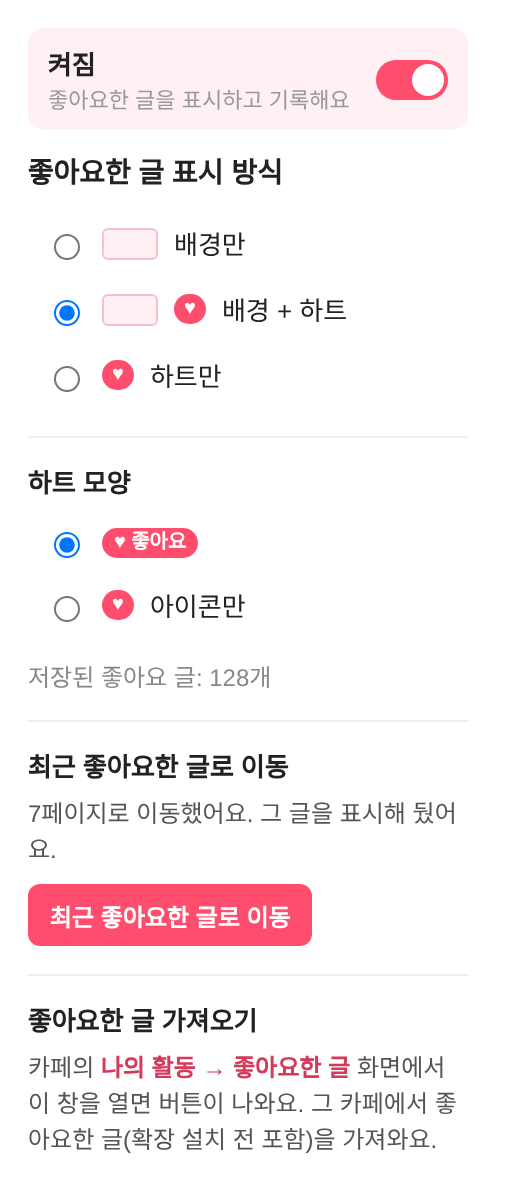
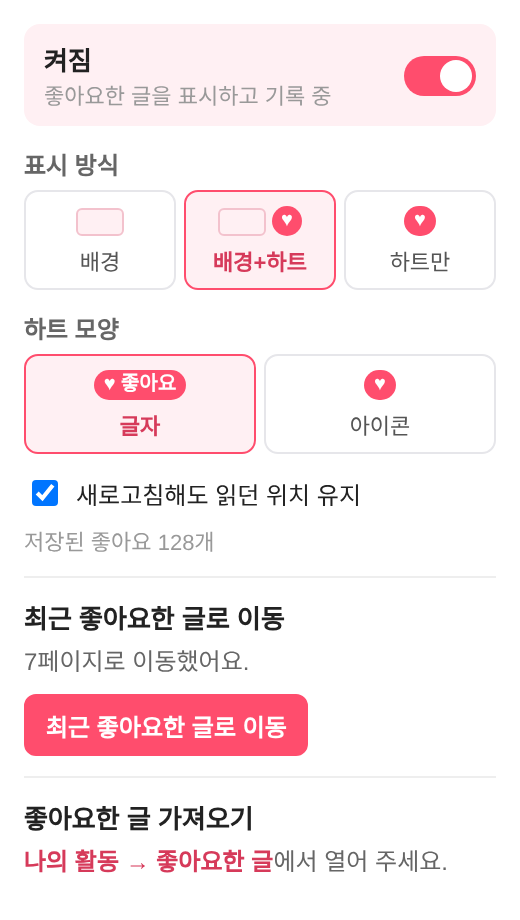
2.0.0 → 2.0.1 업데이트 안내 이미지 (읽던 위치 유지, 설정 창 간소화)
Claude-Session: https://claude.ai/code/session_018ih16usEF2kqeph62Xi418

diff --git a/tools/update_201.html b/tools/update_201.html
@@ -1,0 +1,91 @@
+<!DOCTYPE html><html lang="ko"><head><meta charset="utf-8">
+<style>
+*{box-sizing:border-box}
+body{margin:0;font-family:Pretendard,"Noto Sans CJK KR","Malgun Gothic",sans-serif;color:#222;background:#fff}
+#up{width:960px;padding:56px 56px 48px;background:linear-gradient(180deg,#fff5f7 0%,#fff 38%)}
+.top{text-align:center;margin-bottom:38px}
+.ver{display:inline-flex;align-items:center;gap:12px;font-size:20px;font-weight:800;margin-bottom:18px}
+.ver .old{color:#aaa;background:#f1f1f1;border-radius:18px;padding:6px 16px}
+.ver .arr{color:#ff4d6d;font-size:22px}
+.ver .new{color:#fff;background:#ff4d6d;border-radius:18px;padding:6px 16px}
+.top h1{font-size:40px;margin:0 0 12px;letter-spacing:-1.5px;font-weight:800}
+.top h1 em{font-style:normal;color:#ff3d62}
+.top p{font-size:18px;color:#666;margin:0;line-height:1.6}
+.card{display:flex;gap:30px;align-items:center;background:#fff;border-radius:16px;box-shadow:0 12px 34px rgba(180,40,80,.12),0 2px 6px rgba(0,0,0,.05);padding:28px 30px;margin-bottom:24px}
+.card .body{flex:1}
+.label{display:inline-block;font-size:13px;font-weight:700;border-radius:12px;padding:3px 10px;margin-bottom:10px}
+.label.new{background:#ff4d6d;color:#fff}
+.label.fix{background:#e8f3ff;color:#2a6fd6}
+.card h2{font-size:24px;margin:0 0 10px;letter-spacing:-.5px}
+.card p{font-size:16px;color:#555;margin:0;line-height:1.7}
+.card p b{color:#222}
+.pic{flex:none;width:300px;border-radius:10px;overflow:hidden;box-shadow:0 6px 18px rgba(0,0,0,.12)}
+.pic img{display:block;width:300px}
+.mini{flex:none;width:300px;background:#fafafa;border-radius:10px;padding:14px;border:1px solid #eee}
+.mini table{width:100%;border-collapse:collapse;font-size:13px}
+.mini td{padding:7px 6px;border-bottom:1px solid #eee;white-space:nowrap;position:relative}
+.mini tr.liked td{background:#fff0f3}
+.mini tr.jumped td{box-shadow:inset 0 2px 0 #ff4d6d,inset 0 -2px 0 #ff4d6d}
+.mini tr.jumped td:first-child{box-shadow:inset 2px 2px 0 #ff4d6d,inset 0 -2px 0 #ff4d6d}
+.mini tr.jumped td:last-child{box-shadow:inset -2px 2px 0 #ff4d6d,inset 0 -2px 0 #ff4d6d}
+.mini .no{color:#999;font-size:11px;width:44px}
+.badge{display:inline-block;margin-left:6px;height:15px;padding:0 5px;border-radius:8px;background:#ff4d6d;color:#fff;font-size:9px;line-height:15px;font-weight:700;vertical-align:1px}
+.pg{display:flex;justify-content:center;gap:9px;margin-top:9px;font-size:12px;color:#888}.pg b{color:#ff3d62}
+.order{font-size:14px;line-height:1.9}
+.order .row{display:flex;align-items:center;gap:8px}
+.order .k{width:82px;color:#999;font-size:12px}
+.order .x{color:#bbb;text-decoration:line-through}
+.order .o{color:#222;font-weight:700}
+.note{margin-top:10px;background:#f8f8f8;border-radius:12px;padding:18px 22px;font-size:15px;color:#555;line-height:1.75}
+.note b{color:#222}
+.flow{flex:none;width:330px;display:flex;align-items:flex-start;gap:8px}
+.col{display:flex;flex-direction:column;align-items:center;gap:6px}
+.col .cap2{font-size:12px;color:#888}
+.page{width:138px;height:190px;border-radius:10px;background:#fff;border:1px solid #e6e6ea;box-shadow:0 4px 12px rgba(0,0,0,.06);position:relative;overflow:hidden;padding:12px 10px}
+.page .t{height:10px;width:70%;border-radius:4px;background:#333;margin-bottom:10px}
+.page .l{height:6px;border-radius:3px;background:#e2e2e6;margin-bottom:7px}
+.page .mark{position:absolute;left:0;right:0;height:26px;background:rgba(255,77,109,.14);border-top:2px solid #ff4d6d;border-bottom:2px solid #ff4d6d}
+.page .cap{position:absolute;bottom:6px;left:0;right:0;text-align:center;font-size:11px;color:#999}
+.arrow2{display:flex;flex-direction:column;align-items:center;font-size:12px;color:#ff3d62;font-weight:700;gap:4px;white-space:nowrap;margin-top:70px}
+.arrow2 span{font-size:22px}
+.pop{flex:none;width:280px;border-radius:12px;overflow:hidden;box-shadow:0 8px 22px rgba(0,0,0,.14);border:1px solid #eee}
+.pop img{display:block;width:280px}
+.pop{position:relative;height:262px}
+.pop .ring{position:absolute;left:6px;right:6px;top:236px;height:24px;border:2px solid #ff4d6d;border-radius:6px}
+</style></head><body>
+<div id="up">
+  <div class="top">
+    <div class="ver"><span class="old">2.0.0</span><span class="arr">→</span><span class="new">2.0.1</span></div>
+    <h1>네이버 카페 좋아요 표시 <em>2.0.1 업데이트</em></h1>
+    <p>새로고침해도 읽던 곳 그대로, 설정 창은 더 간단하게.<br>저장된 좋아요 기록은 업데이트해도 그대로 유지돼요.</p>
+  </div>
+
+  <div class="card">
+    <div class="body">
+      <span class="label new">새 기능</span>
+      <h2>새로고침해도 읽던 위치 유지</h2>
+      <p>긴 글을 읽다가 새로고침해도<br>처음부터 다시 내려갈 필요 없어요.<br><b>같은 글의 읽던 위치로 바로 돌아가요.</b><br><br>예전 방식 카페에서도 읽던 글을 다시 열어 줘요.<br>돌아간 뒤 바로 스크롤하면 그대로 멈추고,<br>목록 화면에서는 동작하지 않아요.</p>
+    </div>
+    <div class="flow">
+      <div class="col">
+        <div class="page"><div class="t"></div><div class="l" style="width:95%"></div><div class="l" style="width:88%"></div><div class="l" style="width:92%"></div><div class="l" style="width:70%"></div><div class="l" style="width:96%"></div><div class="l" style="width:90%"></div><div class="l" style="width:85%"></div><div class="l" style="width:93%"></div><div class="l" style="width:60%"></div><div class="l" style="width:91%"></div><div class="l" style="width:87%"></div><div class="l" style="width:94%"></div><div class="l" style="width:78%"></div><div class="l" style="width:90%"></div><div class="l" style="width:82%"></div><div class="l" style="width:95%"></div><div class="l" style="width:70%"></div><div class="mark" style="top:118px"></div></div>
+        <span class="cap2">읽던 곳</span>
+      </div>
+      <div class="arrow2"><span>↻</span>새로고침</div>
+      <div class="col">
+        <div class="page" style="padding-top:0"><div class="l" style="width:95%"></div><div class="l" style="width:88%"></div><div class="l" style="width:92%"></div><div class="l" style="width:70%"></div><div class="l" style="width:96%"></div><div class="l" style="width:90%"></div><div class="l" style="width:85%"></div><div class="l" style="width:93%"></div><div class="l" style="width:60%"></div><div class="l" style="width:91%"></div><div class="l" style="width:87%"></div><div class="l" style="width:94%"></div><div class="l" style="width:78%"></div><div class="l" style="width:90%"></div><div class="l" style="width:82%"></div><div class="l" style="width:95%"></div><div class="l" style="width:70%"></div><div class="mark" style="top:118px"></div></div>
+        <span class="cap2">새로고침 뒤에도 그 자리</span>
+      </div>
+    </div>
+  </div>
+
+  <div class="card">
+    <div class="body">
+      <span class="label fix">개선</span>
+      <h2>설정 창이 더 깔끔해졌어요</h2>
+      <p>표시 방식과 하트 모양을 <b>한 줄 버튼</b>으로 바꿔서<br>스크롤 없이 한눈에 보여요.<br><br><b>"새로고침해도 읽던 위치 유지"</b>도 여기서<br>켜고 끌 수 있어요. (기본 켜짐)</p>
+    </div>
+    <div class="pop"><img src="popup_board.png"><div class="ring"></div></div>
+  </div>
+</div>
+</body></html>
